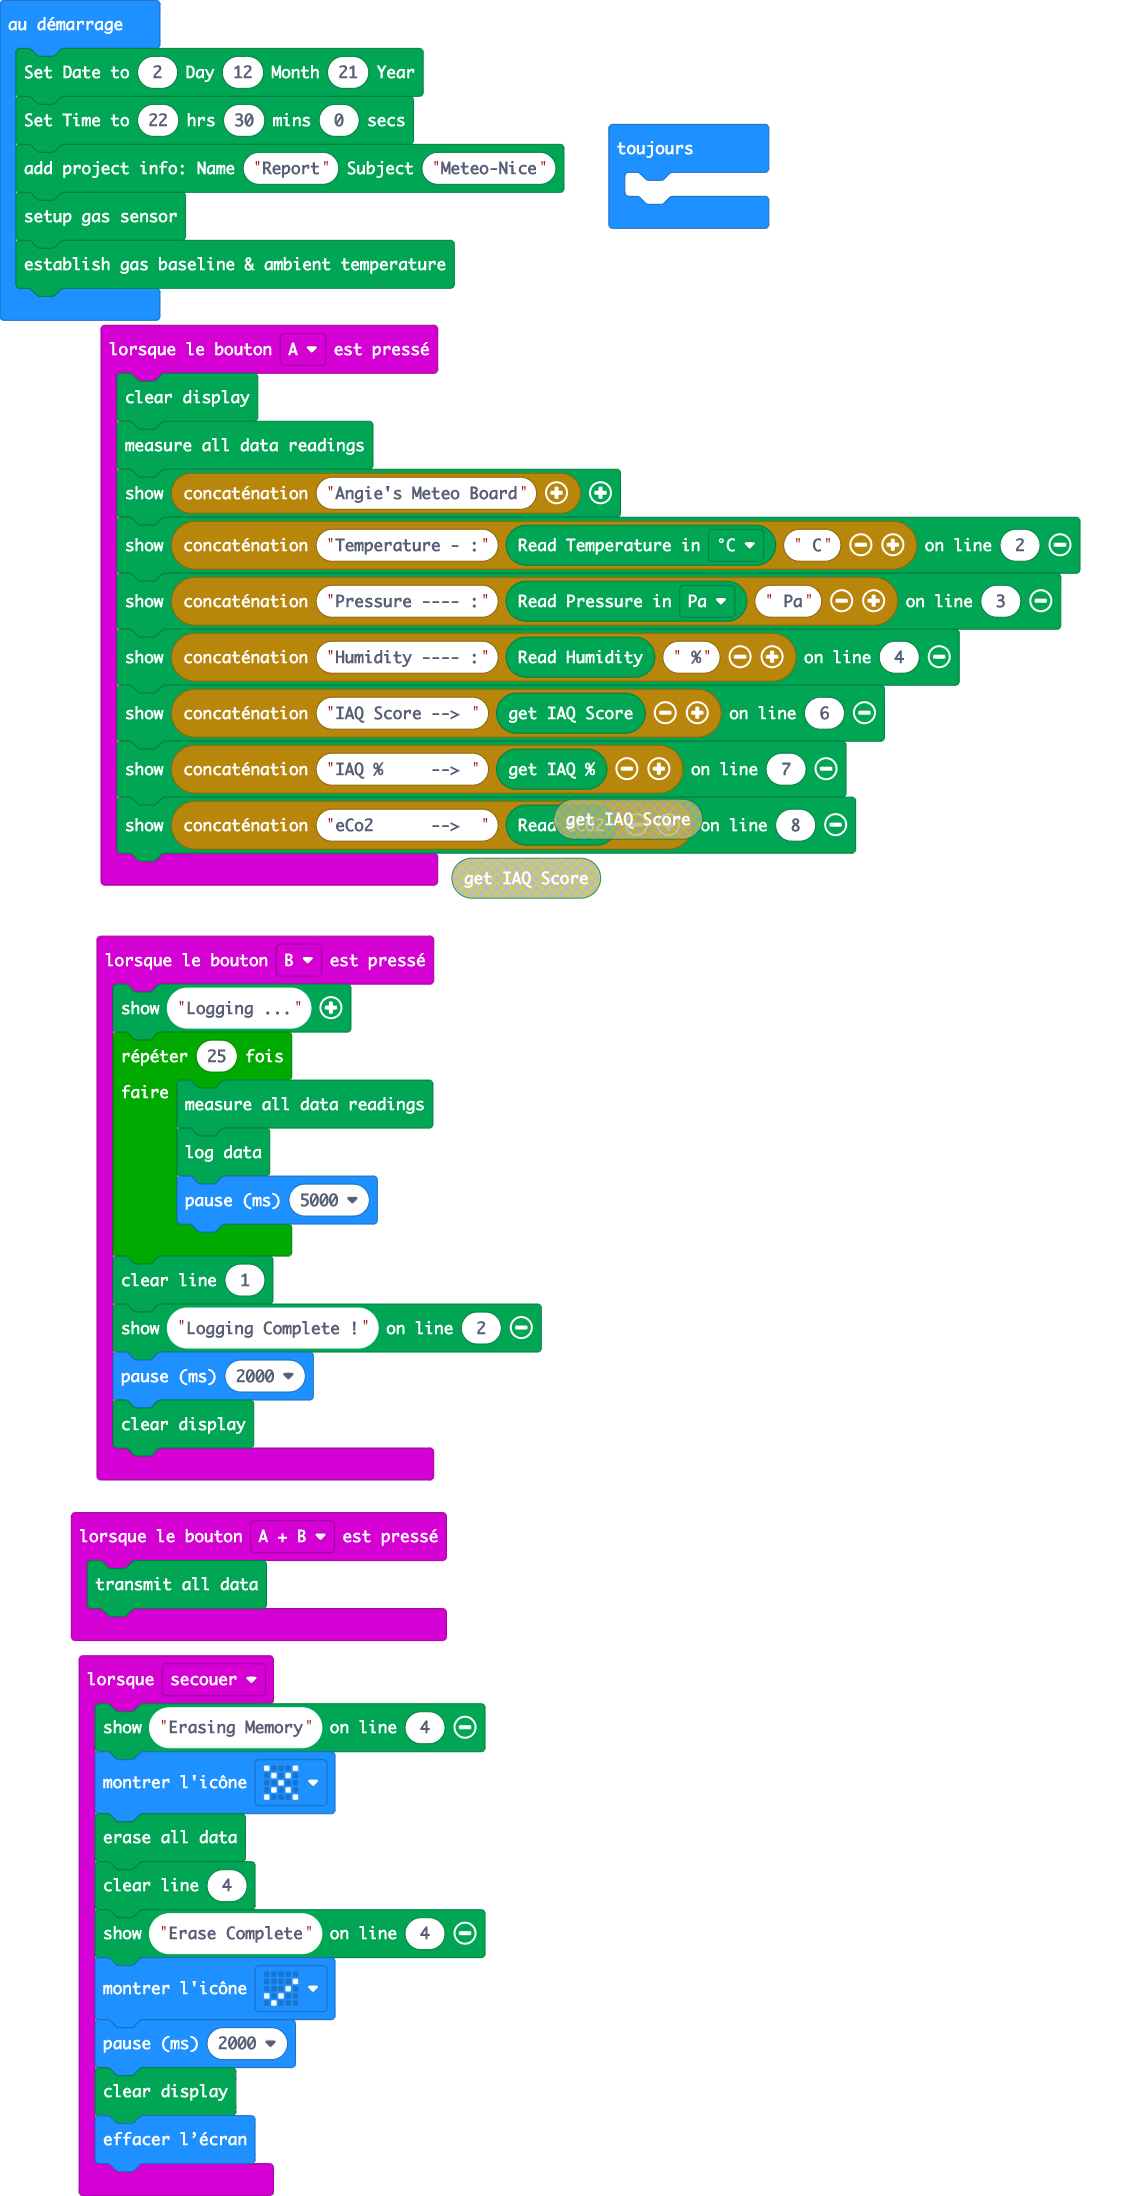
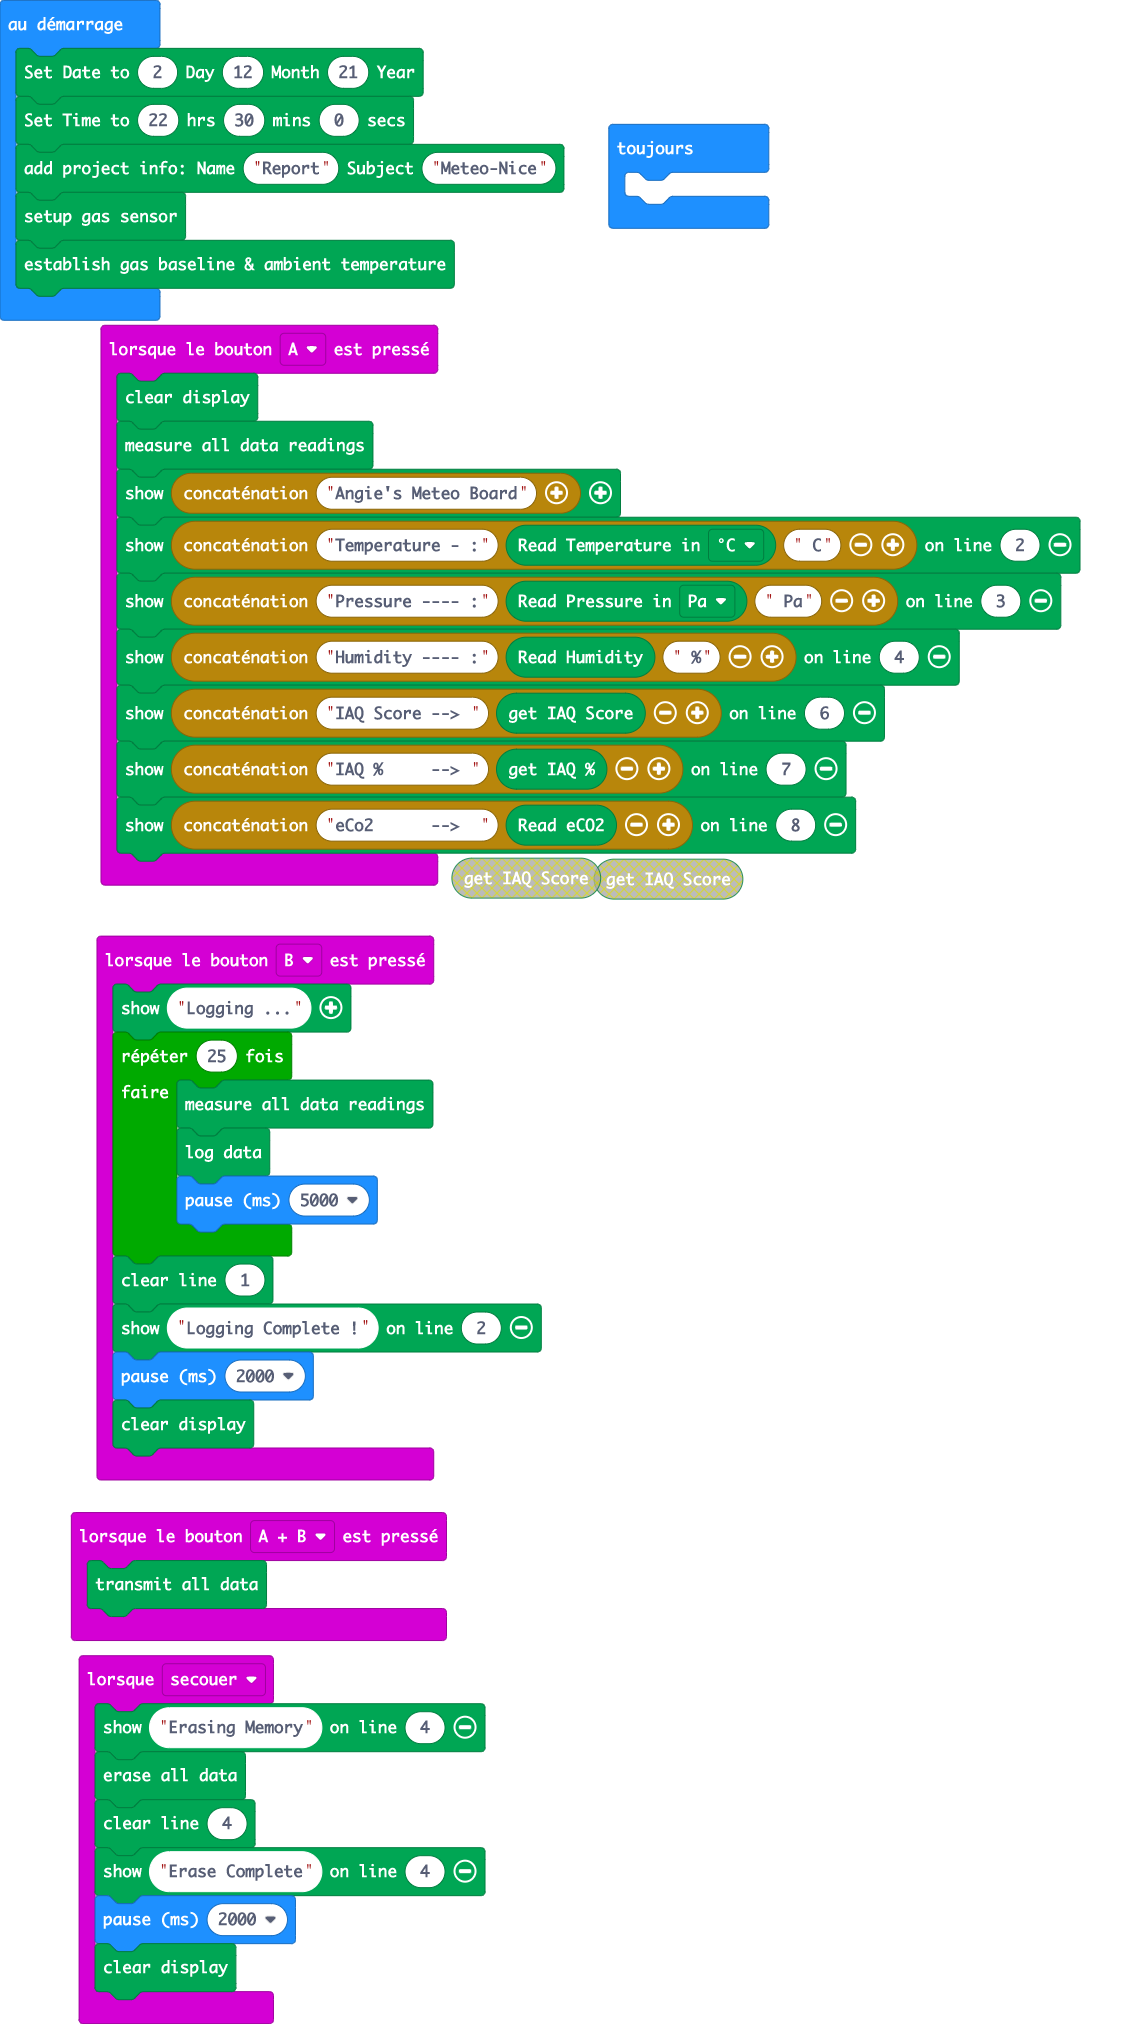
debugging

Changed region(s): [[0.0, 0.0, 0.9585, 0.996], [0.5256, 0.0311, 0.6802, 0.1245]]

diff --git a/main.ts b/main.ts
@@ -26,14 +26,11 @@ input.onButtonPressed(Button.B, function () {
 })
 input.onGesture(Gesture.Shake, function () {
     kitronik_air_quality.show("Erasing Memory", 4)
-    basic.showIcon(IconNames.No)
     kitronik_air_quality.eraseData()
     kitronik_air_quality.clearLine(4)
     kitronik_air_quality.show("Erase Complete", 4)
-    basic.showIcon(IconNames.Yes)
     basic.pause(2000)
     kitronik_air_quality.clear()
-    basic.clearScreen()
 })
 kitronik_air_quality.setDate(2, 12, 21)
 kitronik_air_quality.setTime(22, 30, 0)
